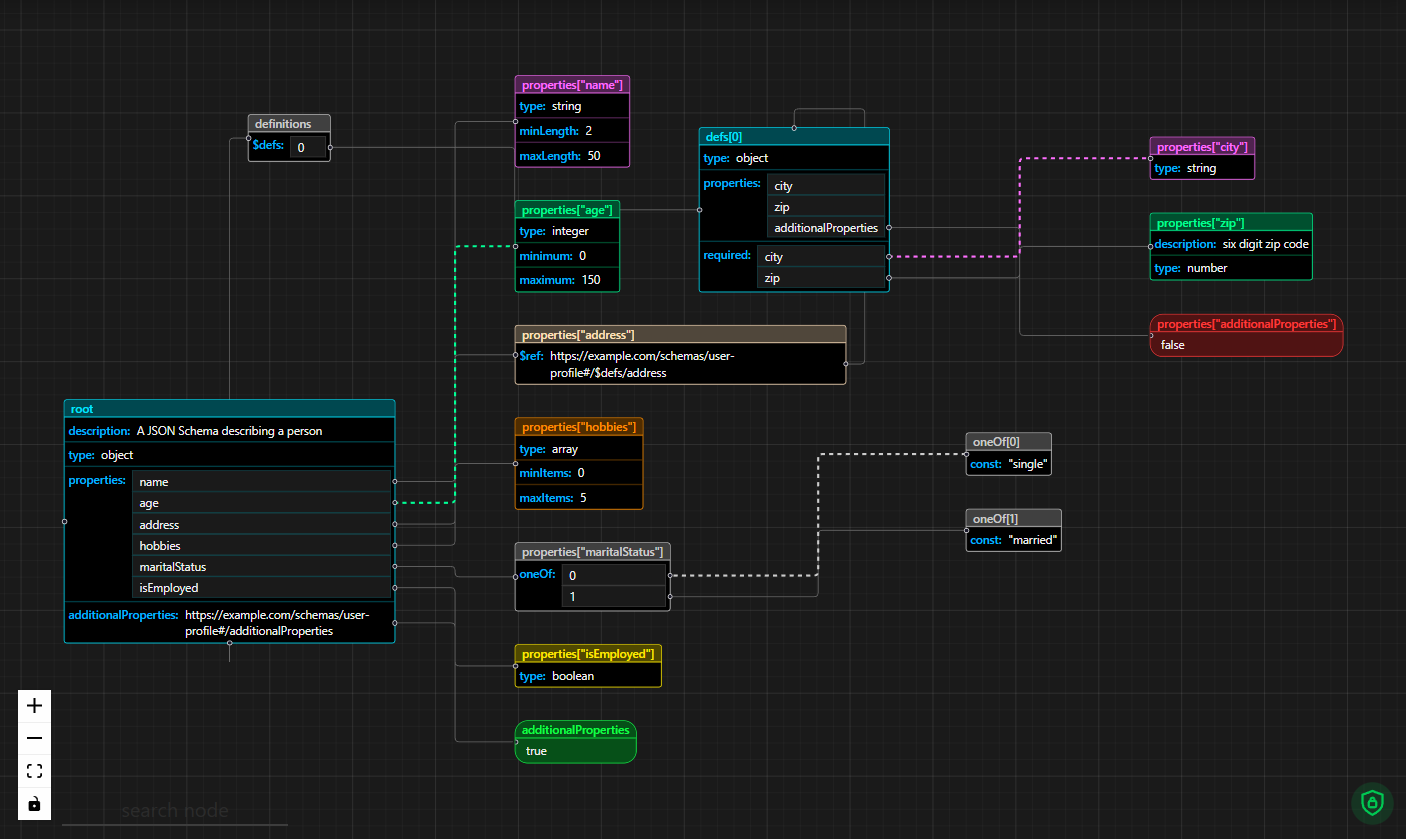
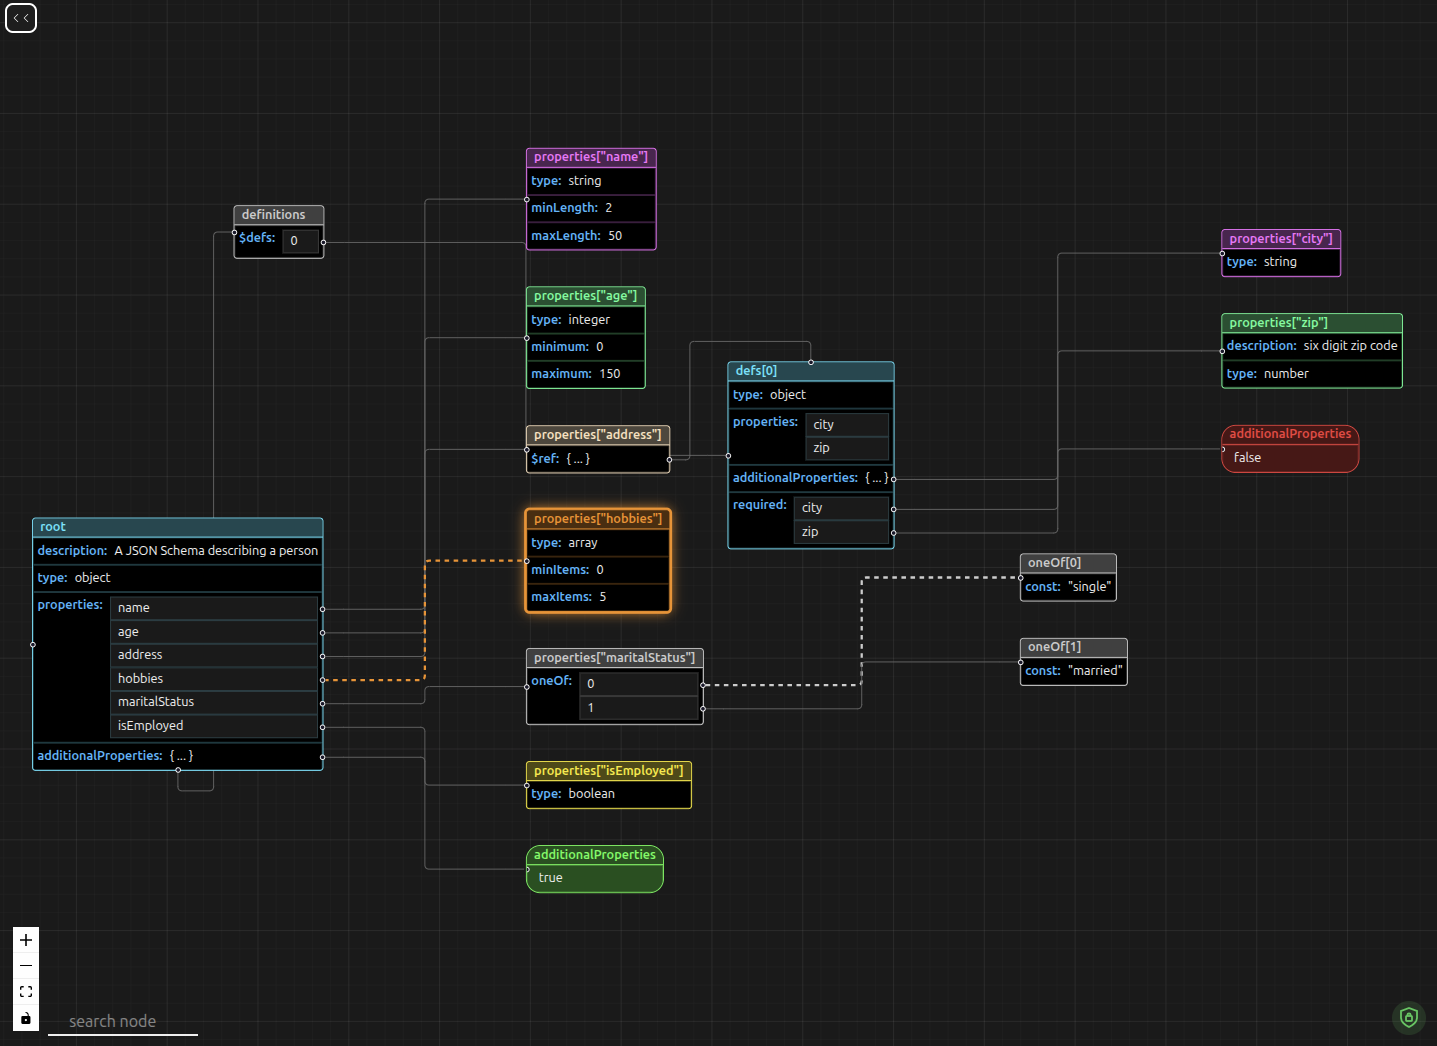
updated documentation according to #202

diff --git a/README.md b/README.md
@@ -143,6 +143,7 @@ _This diagram shows the structure of the "Example JSON Schema" above._
 
 - Keywords displayed inside a node represent how that schema defines the instance.
 - If a keyword's value is itself a subschema, a new node is created.
+- Keyword values that are objects or complex references (such as `$ref`, or `additionalProperties` with a schema value) are displayed inline as `{ ... }` rather than showing the full value. The actual content is represented by the connected child node.
 
 ### Edges
 
@@ -179,6 +180,8 @@ Design improvements are welcome :)
 ### Controls
 
 - Zoom, fit-view, and other graph controls are available in the bottom-left corner of the visualization.
+- A **search node** input at the bottom lets you find nodes by label. Matching is case-insensitive; if multiple nodes match, `◀` / `▶` arrows appear to step through them. Clearing the input restores the full graph view.
+- When a search match is active, the matched node is visually emphasized with a **glowing colored border** — the glow color matches the node's own type color, making it easy to spot across the graph.
 
 ---
 